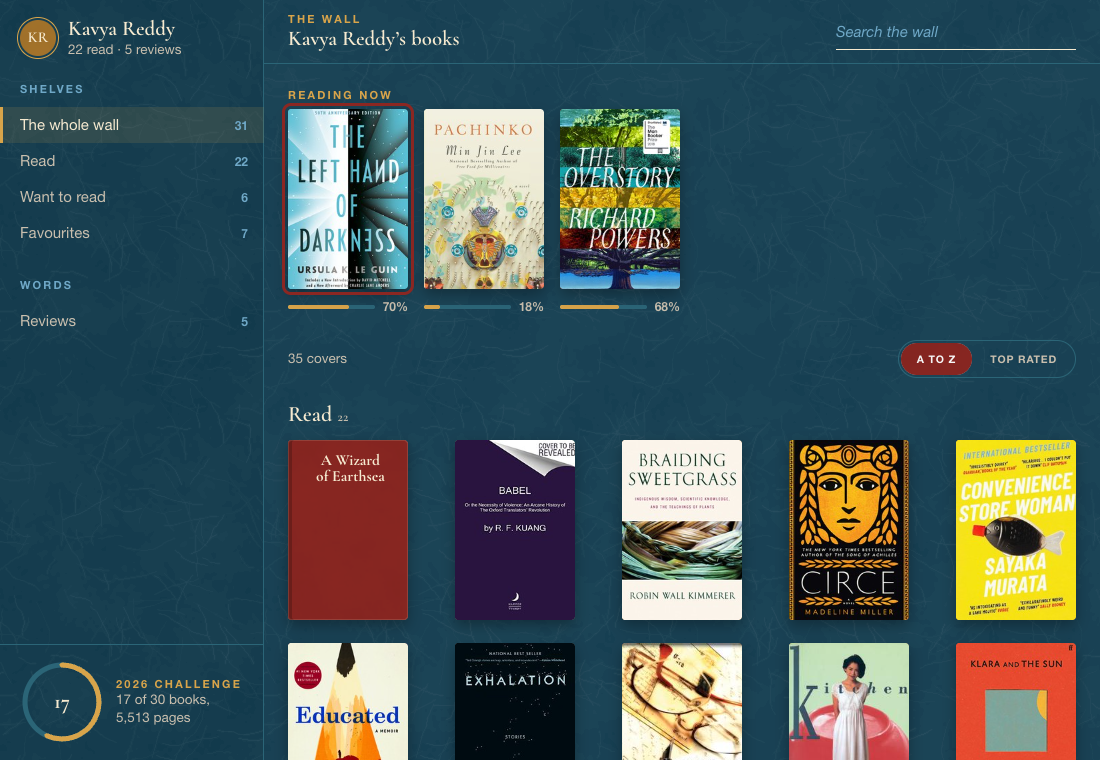
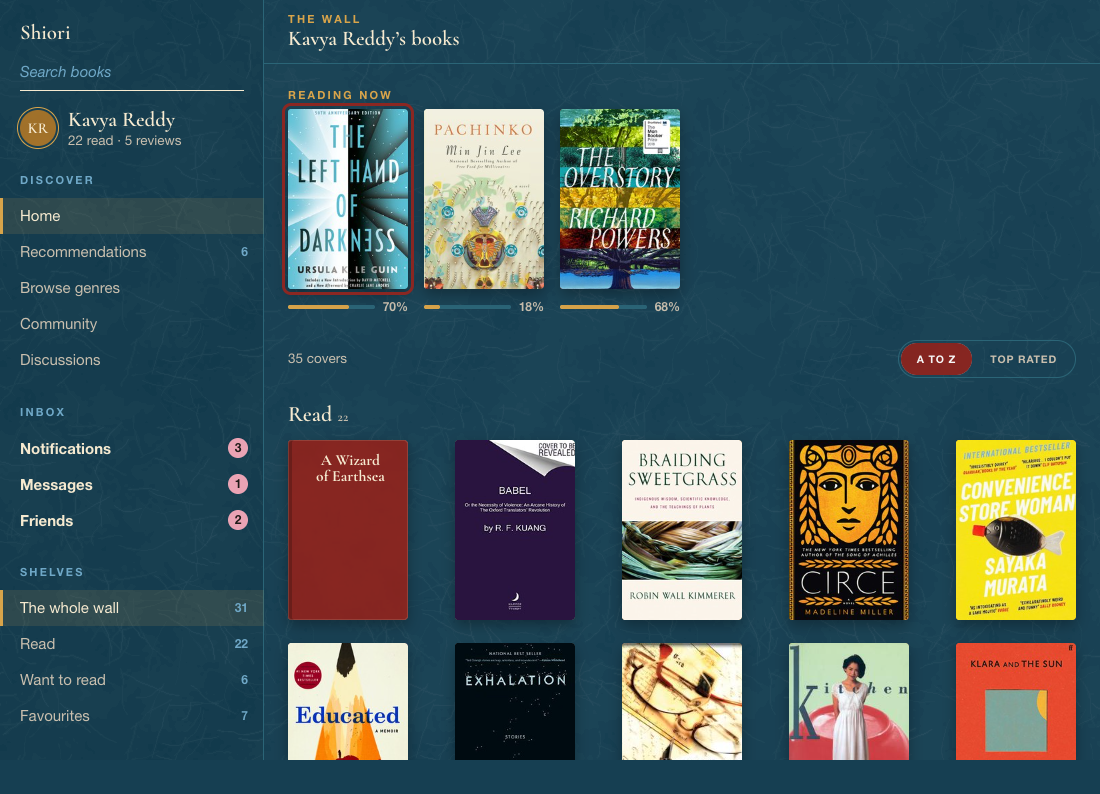
Reader 05: cover wall, richer book details and site links in the rail

diff --git a/products/reader/05-cover-wall/main.tsx b/products/reader/05-cover-wall/main.tsx
@@ -1,7 +1,7 @@
 // A wall of covers grouped by shelf, with reading now on top
 import { useCallback, useState } from 'react';
 import { createRoot } from 'react-dom/client';
-import { AppShell, Rail, RailSection, RailItem, Input, Modal, CoverTile, Progress, Ring, Tag, Button, Toolbar, Segmented, EmptyState, Avatar } from '../../../design-system/components';
+import { AppShell, Rail, RailSection, RailItem, Input, Modal, CoverTile, Progress, Ring, Tag, Button, Toolbar, Segmented, EmptyState, Avatar, Toast } from '../../../design-system/components';
 import { START, ME, GOALS, THIS_YEAR } from '../library';
 import type { Book } from '../library';
 import { coverFor } from '../covers';
@@ -12,6 +12,16 @@ const NARROW = '(max-width: 1100px)';
 const SHELVES = [{ id: 'read', label: 'Read', test: (b: Book) => b.shelf === 'read' }, { id: 'want', label: 'Want to read', test: (b: Book) => b.shelf === 'want' }, { id: 'fav', label: 'Favourites', test: (b: Book) => !!b.fav }];
 const year = START.filter((b) => b.shelf === 'read' && b.year === THIS_YEAR);
 const reviews = START.filter((b) => b.review);
+// Sample community figures, stable per book so they do not change between visits.
+const seed = (t: string) => [...t].reduce((n, c) => (n * 31 + c.charCodeAt(0)) >>> 0, 7);
+const likesOf = (b: Book) => 180 + (seed(b.title) % 4200);
+const ratingOf = (b: Book) => (3.5 + (seed(b.author + b.title) % 13) / 10).toFixed(1);
+const FRIENDS = ['Ritu Sharma', 'Manav Jain', 'Noor Haddad', 'Ife Adeyemi', 'Mei Tanaka'];
+const friendsOf = (b: Book) => FRIENDS.filter((_, i) => (seed(b.title) >> i) & 1).slice(0, 3);
+const TONE: Record<string, string[]> = { Fiction: ['Literary', 'Character-led'], Fantasy: ['Mythic', 'World-building'], 'Science fiction': ['Big ideas', 'Speculative'], 'Non-fiction': ['True story', 'Ideas'] };
+const tagsOf = (b: Book) => [b.genre, ...TONE[b.genre], b.pages < 250 ? 'Short read' : b.pages > 500 ? 'Long read' : 'Medium length'];
+const shelfName = (b: Book) => (b.shelf === 'read' ? (b.year ? `Read in ${b.year}` : 'Read') : b.shelf === 'want' ? 'Want to read' : 'Reading now');
+const NOTES = { Notifications: 3, Messages: 1, Friends: 2 };
 
 function Wall() {
   useTabTrap();
@@ -20,6 +30,10 @@ function Wall() {
   const [sort, setSort] = useState<'title' | 'rating'>('title');
   const [sel, setSel] = useState<Book | null>(START[0]);
   const [sheet, setSheet] = useState(false);
+  const [liked, setLiked] = useState<Record<string, boolean>>({});
+  const [toast, setToast] = useState<string | null>(null);
+  const clearToast = useCallback(() => setToast(null), []);
+  const stub = (n: string) => setToast(`${n} is not built in this prototype`);
   const close = useCallback(() => setSheet(false), []);
   const match = (b: Book) => !q || `${b.title} ${b.author}`.toLowerCase().includes(q.toLowerCase());
   const order = (l: Book[]) => [...l].sort((a, b) => (sort === 'title' ? a.title.localeCompare(b.title) : (b.rating ?? 0) - (a.rating ?? 0)));
@@ -30,7 +44,18 @@ function Wall() {
       <CoverTile src={coverFor(sel.title)} title={sel.title} size="l" />
       <h2 className="ds-h3">{sel.title}</h2>
       <p className="ds-caption">{sel.author} · {sel.genre} · {sel.pages} pages</p>
-      {sel.rating && <Stars n={sel.rating} />}
+      <div className="xre05-social">
+        <Button variant="secondary" size="sm" aria-pressed={!!liked[sel.id]} onClick={() => setLiked((l) => ({ ...l, [sel.id]: !l[sel.id] }))}>{liked[sel.id] ? 'Liked' : 'Like'}</Button>
+        <p className="ds-caption"><strong>{(likesOf(sel) + (liked[sel.id] ? 1 : 0)).toLocaleString('en-IN')}</strong> readers like this</p>
+      </div>
+      <dl className="xre05-facts">
+        <div><dt>Community</dt><dd>★ {ratingOf(sel)}</dd></div>
+        <div><dt>Yours</dt><dd>{sel.rating ? <Stars n={sel.rating} /> : 'Not rated'}</dd></div>
+        <div><dt>Shelf</dt><dd>{shelfName(sel)}</dd></div>
+        <div><dt>Time to read</dt><dd>About {Math.max(1, Math.round(sel.pages / 40))} hours</dd></div>
+      </dl>
+      <div className="xre05-tags">{tagsOf(sel).map((t) => <Tag key={t}>{t}</Tag>)}</div>
+      {friendsOf(sel).length > 0 && <div className="xre05-friends"><div>{friendsOf(sel).map((f) => <Avatar key={f} name={f} size="s" />)}</div><p className="ds-caption">{friendsOf(sel).map((f) => f.split(' ')[0]).join(', ')} also read this</p></div>}
       {sel.shelf === 'reading' && <><Progress value={sel.page ?? 0} max={sel.pages} label={`${sel.title} progress`} showLabel /><p className="ds-caption">Page {sel.page} of {sel.pages}</p></>}
       {sel.fav && <Tag variant="accent">Favourite</Tag>}
       {sel.review ? <p className="xre05-review">{sel.review}</p> : <p className="ds-caption">No review yet.</p>}
@@ -39,12 +64,20 @@ function Wall() {
   return (
     <div className="xre05-root">
       <AppShell mainTone="night"
-        sidebar={<Rail label="Shelves" header={<div className="xre05-me"><Avatar name={ME} size="m" gold /><div><p className="xre05-name">{ME}</p><p className="ds-caption">{START.filter((b) => b.shelf === 'read').length} read · {reviews.length} reviews</p></div></div>}
+        sidebar={<Rail label="Shelves" header={<><p className="xre05-brand">Shiori</p><Input compact label="Search books" hideLabel placeholder="Search books" value={q} onChange={(e) => setQ(e.target.value)} /><div className="xre05-me"><Avatar name={ME} size="m" gold /><div><p className="xre05-name">{ME}</p><p className="ds-caption">{START.filter((b) => b.shelf === 'read').length} read · {reviews.length} reviews</p></div></div></>}
           footer={<div className="xre05-chal"><Ring size={84} value={year.length} max={GOALS[THIS_YEAR]} label={`${THIS_YEAR} reading challenge`}><span className="xre05-chal__n">{year.length}</span></Ring><div><p className="ds-kicker">{THIS_YEAR} challenge</p><p className="ds-caption">{year.length} of {GOALS[THIS_YEAR]} books, {year.reduce((n, b) => n + b.pages, 0).toLocaleString('en-IN')} pages</p></div></div>}>
+          <RailSection title="Discover">
+            <RailItem label="Home" current={shelf === 'all' && !q} onClick={() => { setShelf('all'); setQ(''); }} />
+            <RailItem label="Recommendations" current={shelf === 'want'} count={START.filter((b) => b.shelf === 'want').length} onClick={() => setShelf('want')} />
+            <RailItem label="Browse genres" onClick={() => stub('Browse genres')} />
+            <RailItem label="Community" onClick={() => stub('Community')} />
+            <RailItem label="Discussions" onClick={() => stub('Discussions')} />
+          </RailSection>
+          <RailSection title="Inbox">{Object.entries(NOTES).map(([n, c]) => <RailItem key={n} label={n} unread count={c} onClick={() => stub(n)} />)}</RailSection>
           <RailSection title="Shelves"><RailItem label="The whole wall" current={shelf === 'all'} count={START.length} onClick={() => setShelf('all')} />{SHELVES.map((s) => <RailItem key={s.id} label={s.label} current={shelf === s.id} count={START.filter(s.test).length} onClick={() => setShelf(s.id)} />)}</RailSection>
           <RailSection title="Words"><RailItem label="Reviews" current={shelf === 'reviews'} count={reviews.length} onClick={() => setShelf('reviews')} /></RailSection>
         </Rail>}
-        header={<><div><p className="ds-kicker">The wall</p><h1 className="ds-h4">{ME}’s books</h1></div><span className="ds-spacer" /><Input className="xre05-search" compact label="Search the wall" hideLabel placeholder="Search the wall" value={q} onChange={(e) => setQ(e.target.value)} /></>}
+        header={<><div><p className="ds-kicker">The wall</p><h1 className="ds-h4">{ME}’s books</h1></div></>}
         aside={detail}>
         <div className="xre05-wall">
           {shelf !== 'reviews' && <section className="xre05-now" aria-label="Reading now">
@@ -61,6 +94,7 @@ function Wall() {
         </div>
       </AppShell>
       <Modal open={sheet} onClose={close} variant="sheet" title="The book">{detail}</Modal>
+      {toast && <Toast onDone={clearToast}>{toast}</Toast>}
     </div>
   );
 }

diff --git a/products/reader/05-cover-wall/styles.css b/products/reader/05-cover-wall/styles.css
@@ -24,3 +24,13 @@
   .xre05-search { flex: 1 1 100%; order: 3; }
   .xre05-revs li { flex-direction: column; }
 }
+.xre05-brand { margin-bottom: var(--space-1); font-family: var(--font-serif); font-size: var(--type-heading-4-size); font-weight: 600; }
+.xre05-root .ds-rail__header .xre05-me { margin-top: var(--space-4); }
+.xre05-social { display: flex; align-items: center; gap: var(--space-3); margin-block: var(--space-1); }
+.xre05-facts { display: grid; grid-template-columns: 1fr 1fr; gap: var(--space-2) var(--space-3); width: 100%; margin: 0; padding-block: var(--space-2); box-shadow: inset 0 1px 0 var(--border-subtle), inset 0 -1px 0 var(--border-subtle); }
+.xre05-facts dt { font-size: var(--type-label-tag-size); font-weight: 700; letter-spacing: var(--type-label-tag-tracking); text-transform: uppercase; color: var(--text-secondary); }
+.xre05-facts dd { margin: 0; font-size: var(--type-body-s-size); }
+.xre05-tags { display: flex; flex-wrap: wrap; gap: var(--space-1); }
+.xre05-friends { display: flex; align-items: center; gap: var(--space-2); }
+.xre05-friends > div { display: flex; }
+.xre05-friends .ds-avatar + .ds-avatar { margin-left: calc(-1 * var(--space-2)); }

diff --git a/products/reader/05-cover-wall/README.md b/products/reader/05-cover-wall/README.md
@@ -31,9 +31,9 @@
 - [x] Reading now on top — `xre05-now`
 - [x] Wall of covers — `xre05-covers`
 - [x] Progress — `Progress`
-- [x] Search — `Search the wall`
+- [x] Search and site links in the left rail — `Search books`, `Discover`, `Recommendations`, `Community`
 - [x] Sort — `Segmented`
-- [x] Book details — `xre05-detail`
+- [x] Book details: likes, rating, tags, friends, time to read — `xre05-detail`, `likesOf`, `tagsOf`, `friendsOf`, `xre05-facts`
 - [x] Challenge in the rail — `Ring`
 - [x] Reviews view — `xre05-revs`
 - [x] Empty result — `EmptyState`
@@ -65,3 +65,5 @@ Numbers and writing take a back seat, and book names are hidden until you pick a
 ## System tension
 
 - `Message`, `Modal` and `AppShell` needed the same scoped fixes as earlier layouts (Tab trap, phone rail shadow, tighter messages). Covers use Open Library images, an owner-approved exception to the rule on real cover art, and `CoverTile` text sizes stay below the minimum without them at small sizes.
+
+Community figures (likes, community rating, friends) are sample data derived from each title. Browse genres, Community, Discussions and the inbox items only show a toast.
